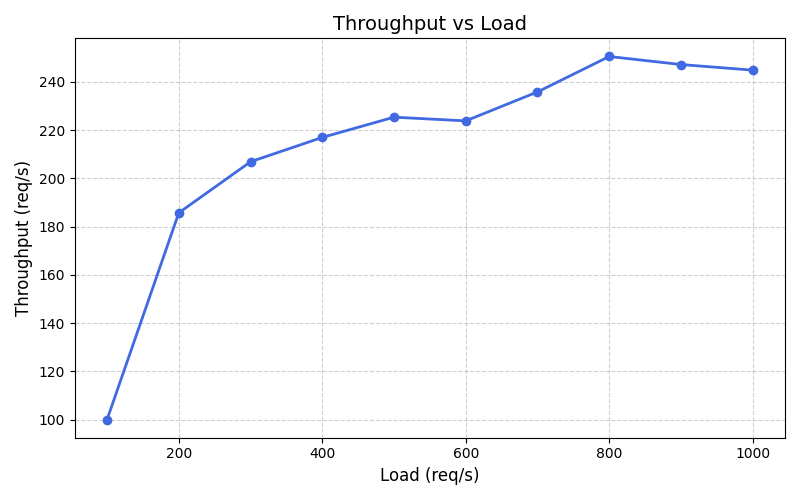
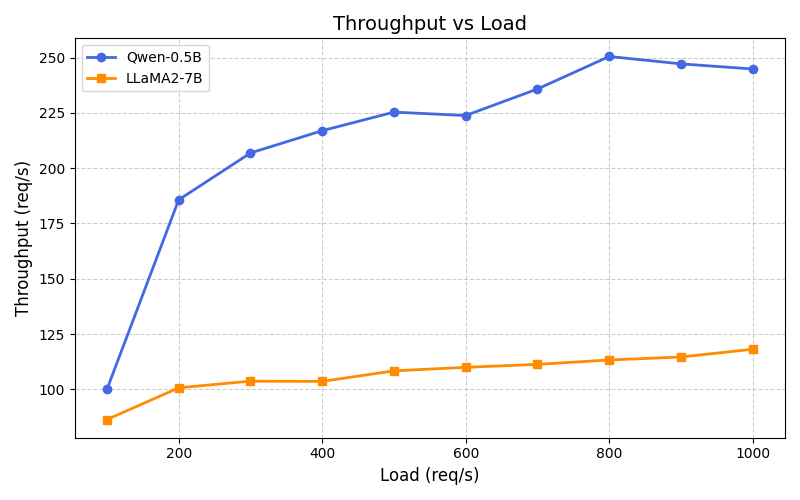
llama-2-7b

diff --git a/code/vllm/vllm_without.py b/code/vllm/vllm_without.py
@@ -33,23 +33,23 @@ def main():
         max_num_seqs=1000,
     )
     sampling_params = SamplingParams(temperature=0.7, max_tokens=30)
-    # for interval in [100, 200, 300, 400, 500, 600, 700, 800, 900, 1000]:
-    #     initial_start_time = time.time()
-    #     multiplier = int(interval/10)
-    #     if multiplier == 0:
-    #         multiplier += 1
-    #     all_prompts = prompts * multiplier
-    #     for i in range(0, len(all_prompts), interval):
-    #         start_time = time.time()
-    #         outputs = llm.generate(all_prompts[i:i+interval], sampling_params)
-    #         time.sleep(max(0, 1 - time.time() + start_time))
-    #     print(f"Throughput for interval ({interval}): ", len(all_prompts) / (time.time() - initial_start_time), "req/s (enabling chunked prefill:", enable_chunked_prefill, ")")
+    for interval in [100, 200, 300, 400, 500, 600, 700, 800, 900, 1000]:
+        initial_start_time = time.time()
+        multiplier = int(interval/10)
+        if multiplier == 0:
+            multiplier += 1
+        all_prompts = prompts * multiplier
+        for i in range(0, len(all_prompts), interval):
+            start_time = time.time()
+            outputs = llm.generate(all_prompts[i:i+interval], sampling_params)
+            time.sleep(max(0, 1 - time.time() + start_time))
+        print(f"Throughput for interval ({interval}): ", len(all_prompts) / (time.time() - initial_start_time), "req/s (enabling chunked prefill:", enable_chunked_prefill, ")")
 
-    prompts *= 100
-    start_time = time.time()
-    outputs = llm.generate(prompts, sampling_params)
-    end_time = time.time()
-    print("Throughput: ", len(outputs) / (end_time - start_time), "req/s (enabling chunked prefill:", enable_chunked_prefill, ")")
+    # prompts *= 100
+    # start_time = time.time()
+    # outputs = llm.generate(prompts, sampling_params)
+    # end_time = time.time()
+    # print("Throughput: ", len(outputs) / (end_time - start_time), "req/s (enabling chunked prefill:", enable_chunked_prefill, ")")
     
     # for interval in [1/5, 1/10, 1/20, 1/30, 1/50, 1/100]:
     # # prompts = prompts[0:10]

diff --git a/documentation/initial_experiments.tex b/documentation/initial_experiments.tex
@@ -400,7 +400,7 @@ PCIe Read/Write BAR1 Requests & CPU requests to GPU memory aperture (BAR1). Read
 \begin{figure}[h]
     \centering
     \includegraphics[width=0.7\textwidth]{\RESULTDIR/throughput_vs_load_vllm_prefix_caching.png}
-    \caption{Throughput vs Load}
+    \caption{Throughput vs Load for different models for heavy workloads}
 \end{figure}
 
 
